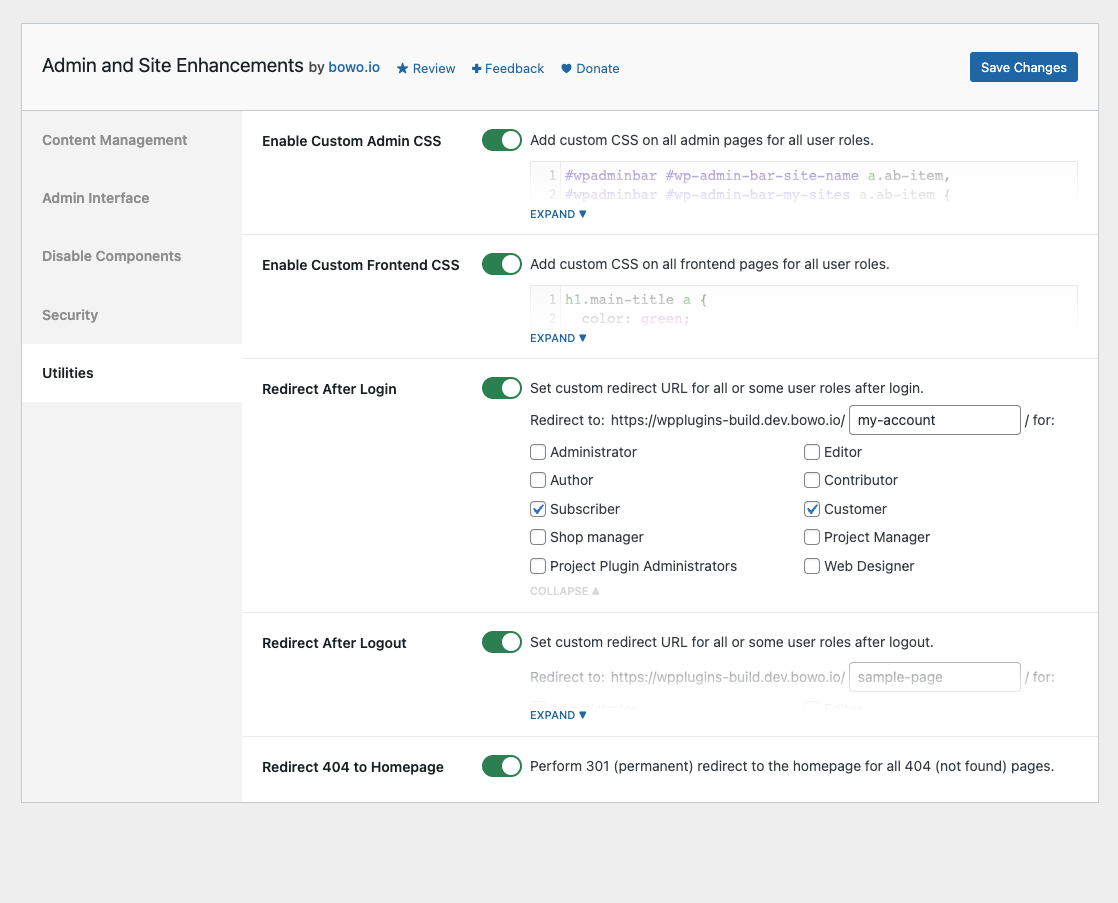
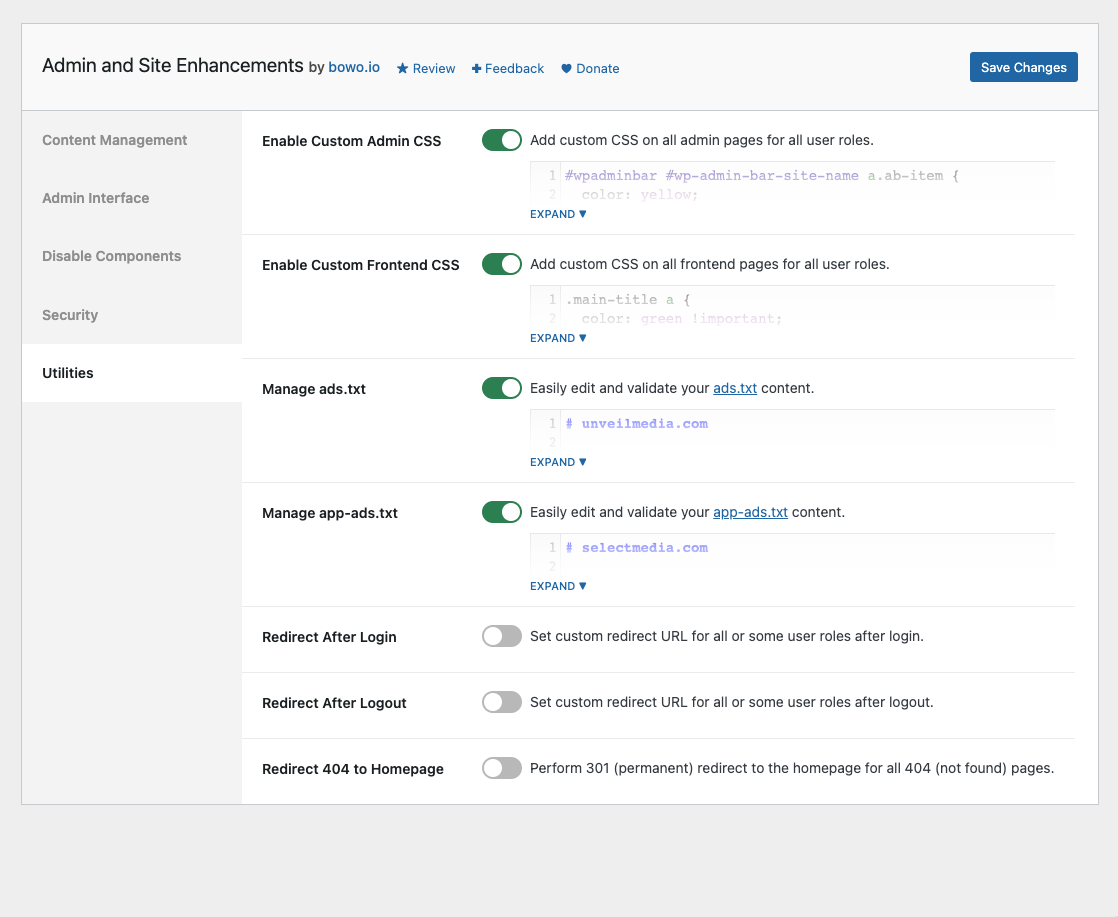
v3.2.0 release

diff --git a/classes/class-settings-sections-fields.php b/classes/class-settings-sections-fields.php
@@ -1143,7 +1143,7 @@ class Settings_Sections_Fields {
 				'field_id'					=> $field_id, // Custom argument
 				'field_slug'				=> $field_slug, // Custom argument
 				'field_name'				=> ASENHA_SLUG_U . '['. $field_id .']', // Custom argument
-				'field_description'			=> 'Easily manage and validate your <a href="/ads.txt" target="_blank">ads.txt</a> content.', // Custom argument
+				'field_description'			=> 'Easily edit and validate your <a href="/ads.txt" target="_blank">ads.txt</a> content.', // Custom argument
 				'field_options_wrapper'		=> true, // Custom argument. Add container for additional options.
 				'field_options_moreless'	=> true,  // Custom argument. Add show more/less toggler.
 				'class'						=> 'asenha-toggle utilities ' . $field_slug, // Custom class for the <tr> element
@@ -1186,7 +1186,7 @@ class Settings_Sections_Fields {
 				'field_id'					=> $field_id, // Custom argument
 				'field_slug'				=> $field_slug, // Custom argument
 				'field_name'				=> ASENHA_SLUG_U . '['. $field_id .']', // Custom argument
-				'field_description'			=> 'Easily manage and validate your <a href="/app-ads.txt" target="_blank">app-ads.txt</a> content.', // Custom argument
+				'field_description'			=> 'Easily edit and validate your <a href="/app-ads.txt" target="_blank">app-ads.txt</a> content.', // Custom argument
 				'field_options_wrapper'		=> true, // Custom argument. Add container for additional options.
 				'field_options_moreless'	=> true,  // Custom argument. Add show more/less toggler.
 				'class'						=> 'asenha-toggle utilities ' . $field_slug, // Custom class for the <tr> element

diff --git a/admin-site-enhancements.php b/admin-site-enhancements.php
@@ -4,7 +4,7 @@
  * Plugin Name:       Admin and Site Enhancements
  * Plugin URI:        https://wordpress.org/plugins/admin-site-enhancements/
  * Description:       Easily enable enhancements and features that usually require multiple plugins.
- * Version:           3.1.0
+ * Version:           3.2.0
  * Author:            Bowo
  * Author URI:        https://bowo.io
  * License:           GPL-2.0+
@@ -18,7 +18,7 @@ if ( ! defined( 'ABSPATH' ) ) {
 	exit;
 }
 
-define( 'ASENHA_VERSION', '3.1.0' );
+define( 'ASENHA_VERSION', '3.2.0' );
 define( 'ASENHA_ID', 'asenha' );
 define( 'ASENHA_SLUG', 'admin-site-enhancements' );
 define( 'ASENHA_SLUG_U', 'admin_site_enhancements' );

diff --git a/README.md b/README.md
@@ -5,7 +5,7 @@ Donate link: https://paypal.me/qriouslad
 Tags: enhancements, tweaks, optimizations, tools  
 Requires at least: 4.6  
 Tested up to: 6.1.1  
-Stable tag: 3.1.0  
+Stable tag: 3.2.0  
 Requires PHP: 5.6  
 License: GPLv2 or later  
 License URI: http://www.gnu.org/licenses/gpl-2.0.html
@@ -64,6 +64,7 @@ Admin and Site Enhancements helps you to easily enhance various admin workflows 
 
 * **Enable Custom Admin CSS**. Add custom CSS on all admin pages for all user roles.
 * **Enable Custom Frontend CSS**. Add custom CSS on all frontend pages for all user roles.
+* **Manage ads.txt and app-ads.txt**. Easily edit and validate your ads.txt and app-ads.txt content.
 * **Redirect After Login / Logout**. Set custom redirect URL for all or some user roles after login / logout.
 * **Redirect 404 to Homepage**. Perform 301 (permanent) redirect to the homepage for all 404 (not found) pages.
 
@@ -104,6 +105,10 @@ Admin and Site Enhancements will include more enhancements, tweaks and useful fe
 Hoping that this is useful in reducing the number of plugins we install the first time we set up a site.
 
 ## Changelog
+
+### 3.2.0 (2022.12.12)
+
+* **[ADDED] Utilities >> Manage ads.txt and app-ads.txt**: Easily edit and validate your ads.txt and app-ads.txt content. Please backup existing ads.txt and app-ads.txt content and remove those files before copying the original content into the ads.txt and app-ads.txt manager in the Utilities tab. If no ads.txt / app-ads.txt files exist in the root directory of your WordPress installation, you can immediately add content for both files.
 
 ### 3.1.0 (2022.12.11)
 
